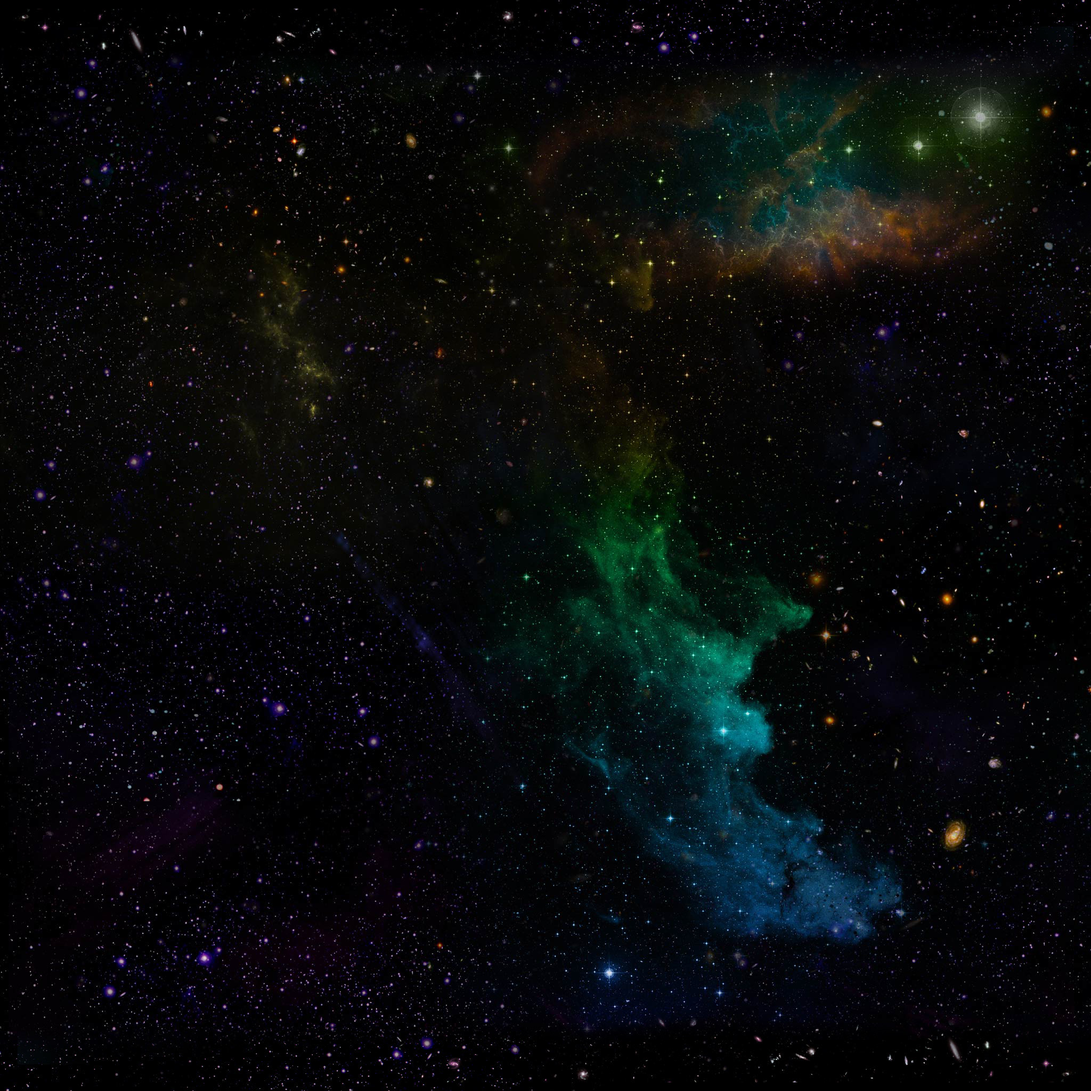
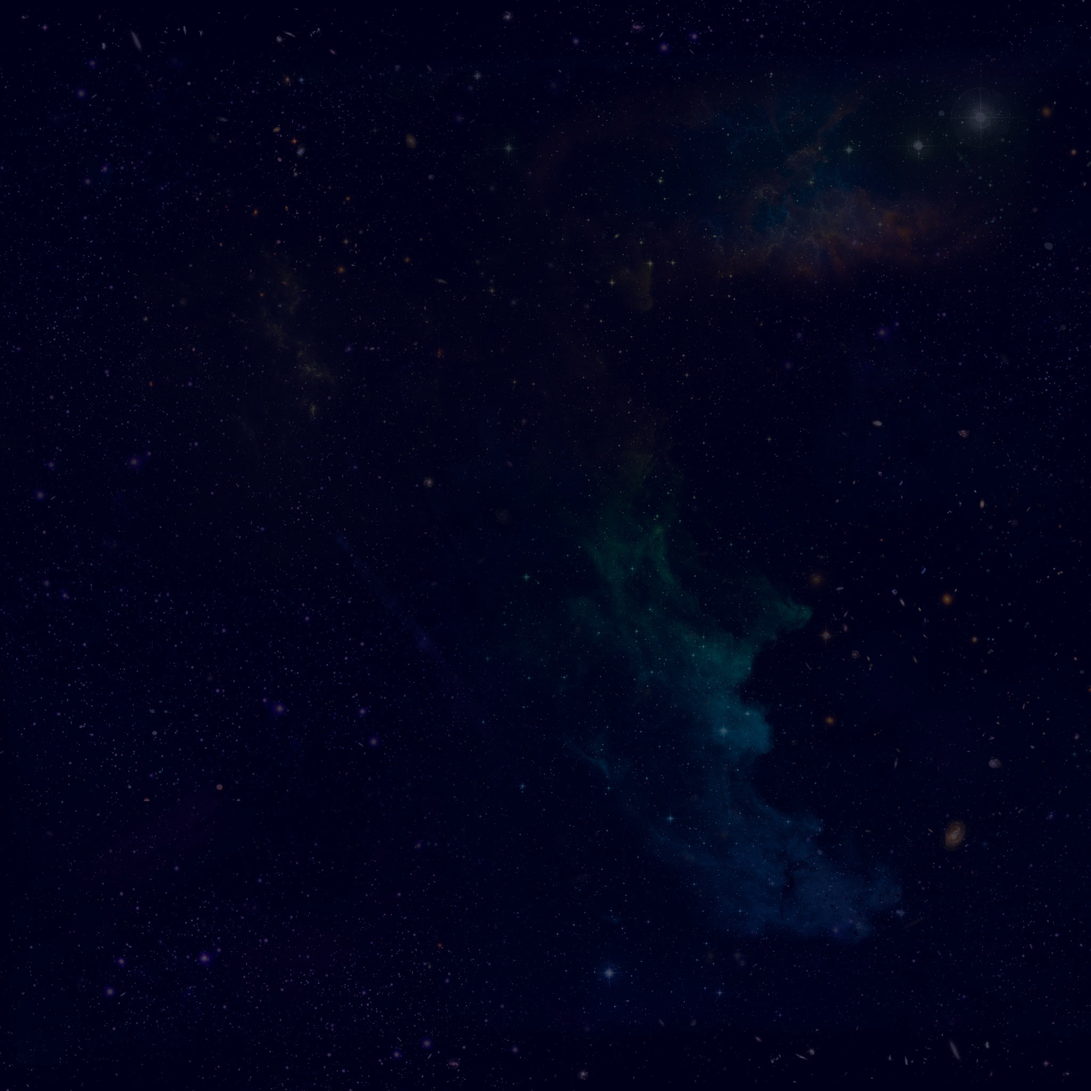
m

diff --git a/src/components/Bar2.tsx b/src/components/Bar2.tsx
@@ -1036,12 +1036,12 @@ export function Bar2(props: JSX.IntrinsicElements["group"]) {
                     <SimpleLight
                         helper
                         position={[0, 0, -0.001]}
-                        intensity={Math.PI * 2}
+                        intensity={Math.PI}
                         castShadow
                         decay={0.1}
                         targetPosition={[0, 0, -10]}
                         angle={Math.PI / 3}
-                        color="fff"
+                        color="EDFF96"
                     />
                 </group>
                 <group
@@ -1061,6 +1061,16 @@ export function Bar2(props: JSX.IntrinsicElements["group"]) {
                         geometry={nodes.CeilingLamp4001_2.geometry}
                         material={materials.LightCeilingLamp4}
                     />
+                    <SimpleLight
+                        helper
+                        position={[0, 0, -0.001]}
+                        intensity={Math.PI}
+                        castShadow
+                        decay={0.1}
+                        targetPosition={[0, 0, -10]}
+                        angle={Math.PI / 3}
+                        color="EDFF96"
+                    />
                 </group>
                 <group
                     position={[-2.651, 0.168, 7.045]}
@@ -1078,6 +1088,16 @@ export function Bar2(props: JSX.IntrinsicElements["group"]) {
                         receiveShadow
                         geometry={nodes.CeilingLamp4002_2.geometry}
                         material={materials.LightCeilingLamp4}
+                    />
+                    <SimpleLight
+                        helper
+                        position={[0, 0, -0.001]}
+                        intensity={Math.PI}
+                        castShadow
+                        decay={0.1}
+                        targetPosition={[0, 0, -10]}
+                        angle={Math.PI / 3}
+                        color="EDFF96"
                     />
                 </group>
                 <group
@@ -1097,6 +1117,16 @@ export function Bar2(props: JSX.IntrinsicElements["group"]) {
                         geometry={nodes.CeilingLamp4003_2.geometry}
                         material={materials.LightCeilingLamp4}
                     />
+                    <SimpleLight
+                        helper
+                        position={[0, 0, -0.001]}
+                        intensity={Math.PI}
+                        castShadow
+                        decay={0.1}
+                        targetPosition={[0, 0, -10]}
+                        angle={Math.PI / 3}
+                        color="EDFF96"
+                    />
                 </group>
                 <group
                     position={[-2.651, 0.168, 14.089]}
@@ -1114,6 +1144,16 @@ export function Bar2(props: JSX.IntrinsicElements["group"]) {
                         receiveShadow
                         geometry={nodes.CeilingLamp4004_2.geometry}
                         material={materials.LightCeilingLamp4}
+                    />
+                    <SimpleLight
+                        helper
+                        position={[0, 0, -0.001]}
+                        intensity={Math.PI}
+                        castShadow
+                        decay={0.1}
+                        targetPosition={[0, 0, -10]}
+                        angle={Math.PI / 3}
+                        color="EDFF96"
                     />
                 </group>
                 <group
@@ -1133,6 +1173,16 @@ export function Bar2(props: JSX.IntrinsicElements["group"]) {
                         geometry={nodes.CeilingLamp4005_2.geometry}
                         material={materials.LightCeilingLamp4}
                     />
+                    <SimpleLight
+                        helper
+                        position={[0, 0, -0.001]}
+                        intensity={Math.PI}
+                        castShadow
+                        decay={0.1}
+                        targetPosition={[0, 0, -10]}
+                        angle={Math.PI / 3}
+                        color="EDFF96"
+                    />
                 </group>
                 <group
                     position={[0.777, -0.229, -2.344]}
@@ -1150,6 +1200,16 @@ export function Bar2(props: JSX.IntrinsicElements["group"]) {
                         receiveShadow
                         geometry={nodes.CeilingLamp4006_2.geometry}
                         material={materials.LightCeilingLamp4}
+                    />
+                    <SimpleLight
+                        helper
+                        position={[0, 0, -0.001]}
+                        intensity={Math.PI}
+                        castShadow
+                        decay={0.1}
+                        targetPosition={[0, 0, -10]}
+                        angle={Math.PI / 3}
+                        color="EDFF96"
                     />
                 </group>
             </group>

diff --git a/src/App.tsx b/src/App.tsx
@@ -22,9 +22,9 @@ function SkyBox() {
       "/sky/1.jpg",
       "/sky/2.jpg",
       "/sky/3.jpg",
-      "/sky/4.jpg",
-      "/sky/5.jpg",
-      "/sky/6.jpg"
+      "/sky/1.jpg",
+      "/sky/2.jpg",
+      "/sky/3gi.jpg"
     ]);
   
     // Set the scene background property to the resulting texture.
@@ -32,49 +32,73 @@ function SkyBox() {
     return null;
   }
 
-function CameraMovement() {
+  function CameraMovement() {
     const { camera } = useThree();
-    let startTime = 0;
-    const duration = 10000; // Duration in milliseconds
-    const startPosition = new THREE.Vector3(10000 - 200, 250, 300);
-    const endPosition = new THREE.Vector3(10000 + 100, 250, 300);
-    const startRotation = new THREE.Quaternion().setFromEuler(
+    const startTime = useRef(0);
+    const duration1 = 10000; // Duration in milliseconds for first cutscene
+    const duration2 = 10000; // Duration in milliseconds for second cutscene
+    const startPosition1 = new THREE.Vector3(10000 - 200, 250, 300);
+    const endPosition1 = new THREE.Vector3(10000 + 100, 250, 300);
+    const startRotation1 = new THREE.Quaternion().setFromEuler(
         new THREE.Euler(0, -Math.PI / 5, 0)
     );
-    const endRotation = new THREE.Quaternion().setFromEuler(
+    const endRotation1 = new THREE.Quaternion().setFromEuler(
         new THREE.Euler(0, Math.PI / 5, 0)
     );
-    const [cutscene, finishedCutscene] = useState(false);
+    const startPosition2 = new THREE.Vector3(10000, 180, -250);
+    const endPosition2 = new THREE.Vector3(10000, 180, -250);
+    const startRotation2 = new THREE.Quaternion().setFromEuler(
+        new THREE.Euler(0, Math.PI / 2, 0)
+    );
+    const endRotation2 = new THREE.Quaternion().setFromEuler(
+        new THREE.Euler(0, Math.PI / 1.7, 0)
+    );
+    const [cutscene, setCutscene] = useState(0);
 
     useEffect(() => {
-        camera.position.copy(startPosition);
-        camera.quaternion.copy(startRotation);
-        startTime = performance.now();
+        camera.position.copy(startPosition1);
+        camera.quaternion.copy(startRotation1);
+        startTime.current = performance.now();
     }, [camera]);
 
     useFrame(() => {
-        if (startTime) {
-            const elapsed = performance.now() - startTime;
-            const progress = Math.min(elapsed / duration, 1);
+        if (cutscene === 0) {
+            const elapsed = performance.now() - startTime.current;
+            const progress = Math.min(elapsed / duration1, 1);
 
-            camera.position.lerpVectors(startPosition, endPosition, progress);
+            camera.position.lerpVectors(startPosition1, endPosition1, progress);
             camera.quaternion.slerpQuaternions(
-                startRotation,
-                endRotation,
+                startRotation1,
+                endRotation1,
                 progress
             );
 
             if (progress === 1) {
-                startTime = 0; // Stop the animation once the duration is complete
-                finishedCutscene(true);
+                startTime.current = performance.now(); // Reset the startTime for the next cutscene
+                setCutscene(1);
             }
         }
 
-        if (cutscene) {
-            // Enable Scene 2 here
+        if (cutscene === 1) {
+            const elapsed = performance.now() - startTime.current;
+            const progress = Math.min(elapsed / duration2, 1);
+
+            camera.position.lerpVectors(startPosition2, endPosition2, progress);
+            camera.quaternion.slerpQuaternions(
+                startRotation2,
+                endRotation2,
+                progress
+            );
+
+            if (progress === 1) {
+                setCutscene(2); // End of cutscenes
+            }
+        }
+        else if (cutscene === 2) {
+            // Teleport to the new position
             camera.position.set(-10000, 100, 0);
             camera.rotation.set(0, 0, 0);
-            finishedCutscene(false); // Reset the state to avoid repeated teleportation
+            setCutscene(3); // Prevent this block from running again
         }
     });
 
@@ -106,7 +130,6 @@ function App() {
                 <SpectatorControls />
                 <ambientLight intensity={Math.PI / 8} />
                 <Maze receiveShadow position={[0, 0, 0]} />
-                <SkyBox />
                 {/* Scene 1 - Minum-minum */}
                 <Bar2
                     receiveShadow
@@ -114,6 +137,7 @@ function App() {
                     scale={[60, 60, 60]}
                 />
                 {/* Scene 2 - Mabok-mabok */}
+                <SkyBox />
                 <City
                     receiveShadow
                     position={[-10000, 100, 1000]}

diff --git a/src/components/SimpleLight.tsx b/src/components/SimpleLight.tsx
@@ -20,7 +20,7 @@ export function SimpleLight(props: SimpleLightProps) {
                 position={props.targetPosition}
             />
 
-            <spotLightHelper args={[spotlight, "#FF0000"]} />
+            {/* <spotLightHelper args={[spotlight, "#FF0000"]} /> */}
         </>
     );
 }
